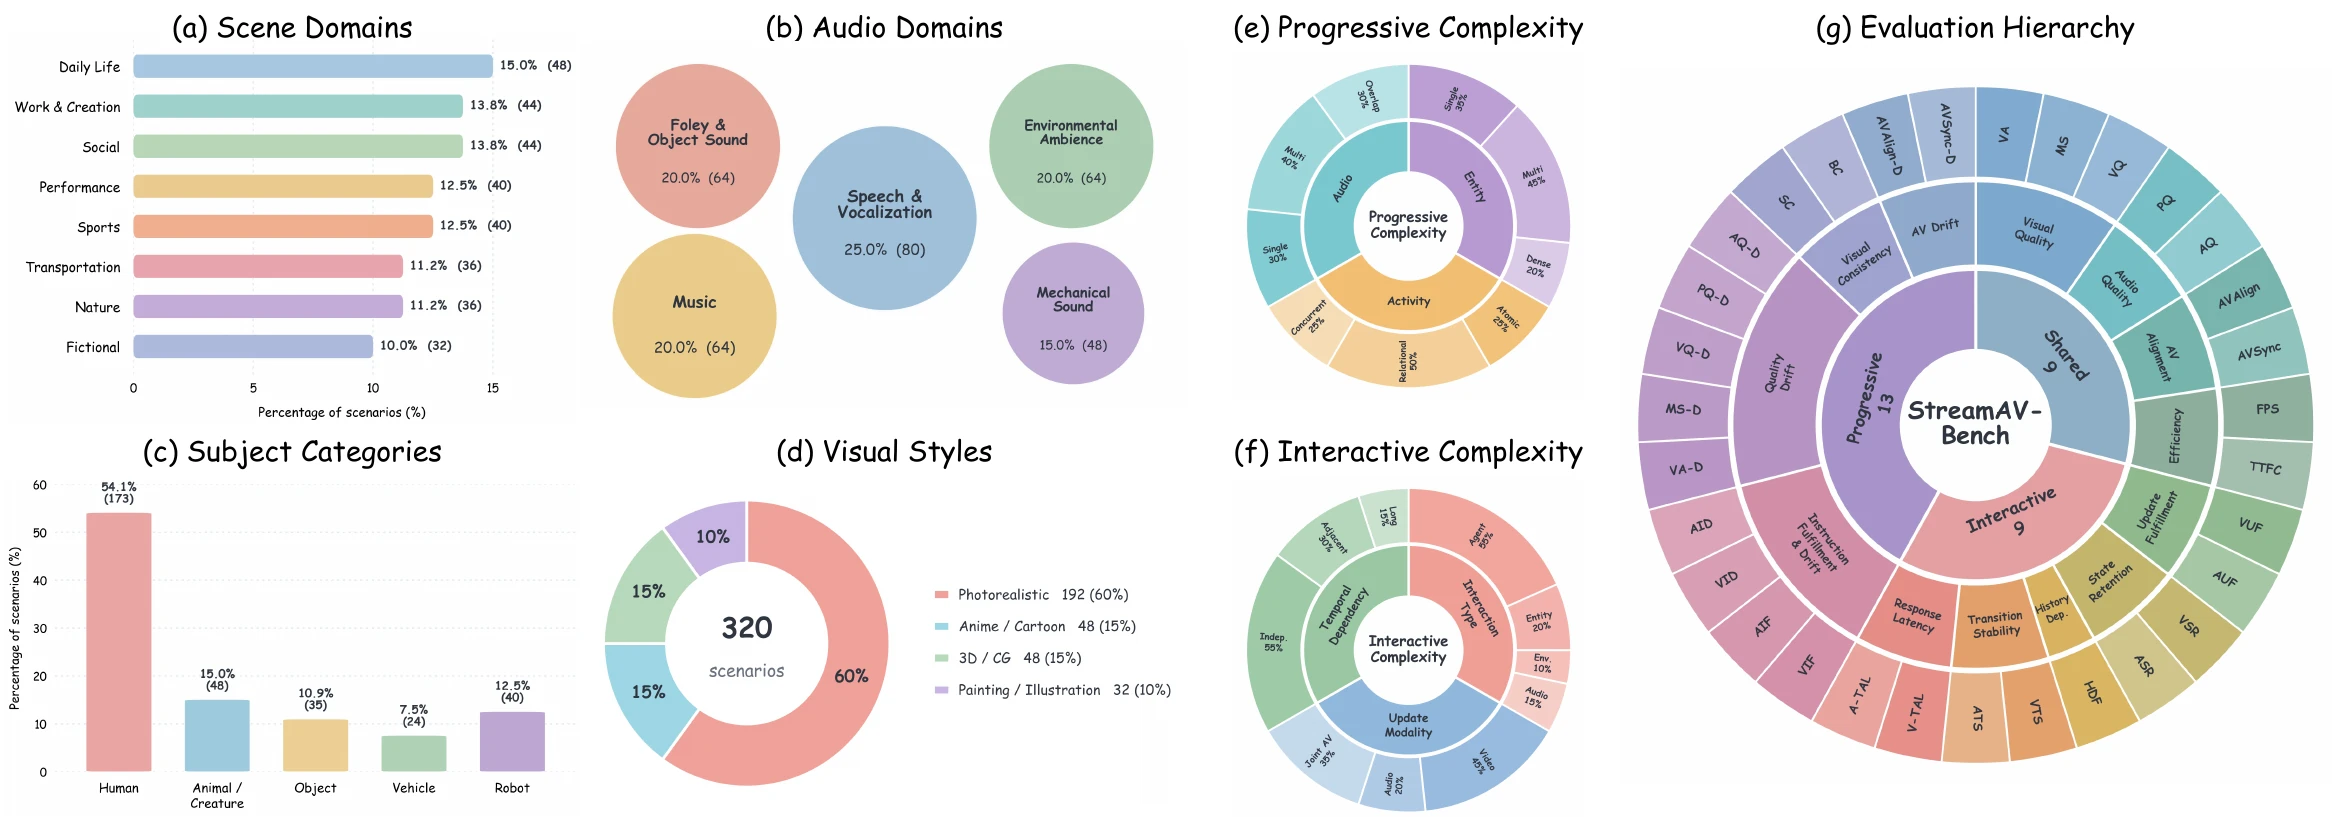
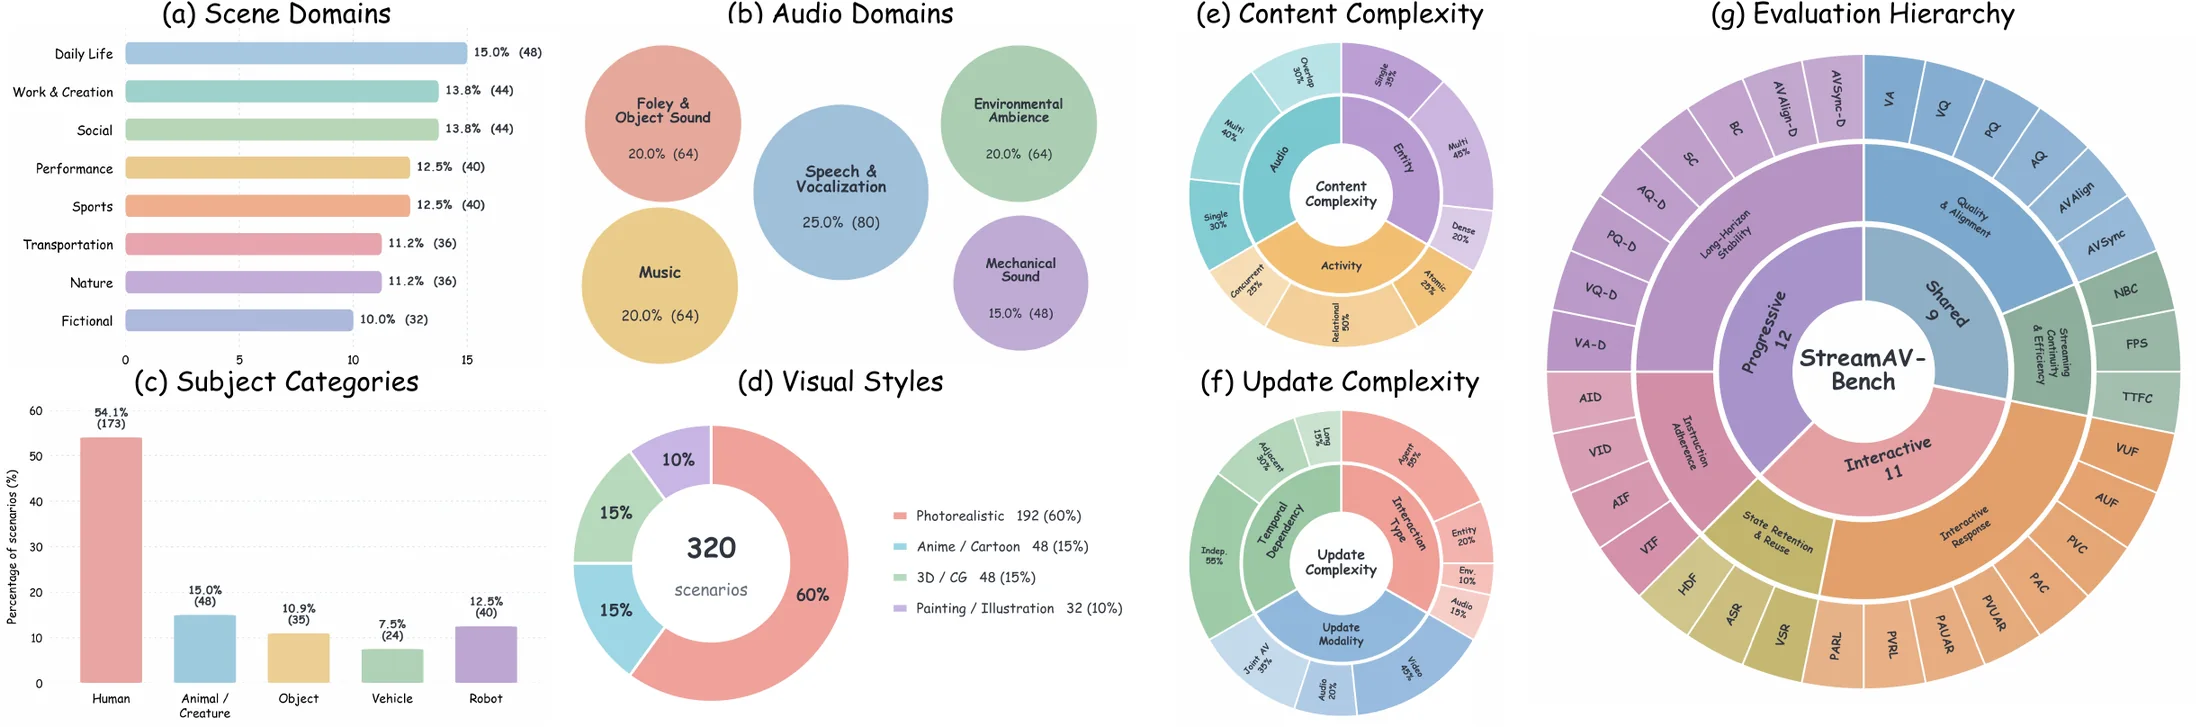
Update the project page to match the finalized paper

diff --git a/index.html b/index.html
@@ -3,7 +3,7 @@
 <head>
   <meta charset="utf-8">
   <meta name="viewport" content="width=device-width, initial-scale=1">
-  <meta name="description" content="StreamAV-Bench is a comprehensive benchmark for long-horizon and interactive streaming audio-video generation.">
+  <meta name="description" content="StreamAV-Bench is a comprehensive benchmark for streaming audio-video generation, with 320 expert-verified scenarios and 32 evaluation dimensions.">
   <meta property="og:title" content="StreamAV-Bench">
   <meta property="og:description" content="A comprehensive benchmark for streaming audio-video generation.">
   <meta property="og:image" content="assets/teaser.webp">
@@ -84,11 +84,11 @@
             <span><strong>Paper</strong><small>Coming soon</small></span>
             <b aria-hidden="true">—</b>
           </span>
-          <span class="resource-button resource-disabled" aria-disabled="true">
+          <a class="resource-button resource-primary" href="https://github.com/liukqchoco/StreamAVBench-Code" target="_blank" rel="noopener noreferrer">
             <span class="resource-icon" aria-hidden="true">&lt;/&gt;</span>
-            <span><strong>Code</strong><small>Coming soon</small></span>
-            <b aria-hidden="true">—</b>
-          </span>
+            <span><strong>Code</strong><small>GitHub repository</small></span>
+            <b aria-hidden="true">↗</b>
+          </a>
           <span class="resource-button resource-disabled" aria-disabled="true">
             <span class="resource-icon" aria-hidden="true">≋</span>
             <span><strong>Leaderboard</strong><small>Coming soon</small></span>
@@ -104,7 +104,7 @@
         <div class="hero-visual reveal">
           <div class="figure-label"><span>01</span> Benchmark at a glance</div>
           <div class="figure-scroll">
-            <img src="assets/teaser.webp" alt="Overview of StreamAV-Bench tasks, benchmark composition, and evaluation framework." width="2361" height="1011">
+            <img src="assets/teaser.webp" alt="Overview of StreamAV-Bench: progressive and interactive tracks, content and update complexity, and a 32-dimensional evaluation framework." width="2400" height="1095">
           </div>
         </div>
       </div>
@@ -115,7 +115,7 @@
         <div class="stat reveal"><strong>320</strong><span>curated scenarios</span></div>
         <div class="stat reveal"><strong>180<small>s</small></strong><span>continuous generation</span></div>
         <div class="stat reveal"><strong>800</strong><span>runtime updates</span></div>
-        <div class="stat reveal"><strong>33</strong><span>fine-grained metrics</span></div>
+        <div class="stat reveal"><strong>32</strong><span>fine-grained dimensions</span></div>
         <div class="stat reveal"><strong>13</strong><span>evaluated systems</span></div>
       </div>
     </section>
@@ -124,7 +124,7 @@
       <div class="section-heading reveal">
         <p class="kicker">The evaluation gap</p>
         <h2>A generated clip is no longer the final product.</h2>
-        <p>Streaming systems extend an already committed world while users intervene in real time. Evaluating only the completed output misses the failures that happen along the way.</p>
+        <p>Streaming systems generate incrementally while earlier clips become committed history. Users may keep a prompt fixed or update it at runtime. Evaluating only the completed output misses the failures that happen along the way.</p>
       </div>
 
       <div class="gap-grid">
@@ -137,13 +137,13 @@
         <article class="gap-card reveal">
           <span class="card-index">02</span>
           <h3>Updates change the world</h3>
-          <p>A model must realize each runtime instruction without erasing unrelated subjects, environments, or sounds.</p>
+          <p>A model must execute dynamic state switches quickly, without erasing unrelated subjects, environments, or sounds.</p>
           <div class="update-pills" aria-hidden="true"><i>P0</i><i>U1</i><i>U2</i><i>U3</i></div>
         </article>
         <article class="gap-card reveal">
           <span class="card-index">03</span>
           <h3>History changes the answer</h3>
-          <p>Later instructions can depend on states established many chunks earlier, demanding active state reuse rather than passive continuity.</p>
+          <p>Later instructions can depend on states established many intervals earlier, demanding active state reuse rather than passive continuity.</p>
           <div class="history-path" aria-hidden="true"><i></i><b></b><i></i><b></b><i></i></div>
         </article>
       </div>
@@ -156,7 +156,7 @@
             <p class="kicker">Two complementary tracks</p>
             <h2>One benchmark, two streaming regimes.</h2>
           </div>
-          <p>Both tracks generate 180 seconds of synchronized content, but expose different failure modes.</p>
+          <p>Both tracks generate 180 seconds of synchronized content, and we also compare the first 60, 120, and 180 seconds of the same rollout.</p>
         </div>
 
         <div class="tracks">
@@ -166,7 +166,7 @@
               <span>160 scenarios</span>
             </div>
             <h3>Can a world hold together over time?</h3>
-            <p>A single global prompt drives continuous generation. We inspect six non-overlapping intervals to reveal drift, degradation, and long-horizon consistency.</p>
+            <p>A single global prompt drives continuous generation. We evaluate instruction adherence and long-horizon stability as the committed history grows.</p>
             <div class="timeline progressive-timeline" aria-label="Progressive track timeline">
               <span class="prompt-node">Global prompt</span>
               <div class="timeline-line">
@@ -176,7 +176,7 @@
             <ul class="track-list">
               <li>Instruction fulfillment &amp; drift</li>
               <li>Quality degradation</li>
-              <li>Visual and cross-modal consistency</li>
+              <li>Subject, background, and audio-video consistency</li>
             </ul>
           </article>
 
@@ -186,7 +186,7 @@
               <span>160 scenarios · 5 updates each</span>
             </div>
             <h3>Can a world respond without forgetting?</h3>
-            <p>An initial world is modified every 30 seconds. Updates vary by interaction type, modality, and dependency on earlier events.</p>
+            <p>An initial world is updated every 30 seconds. Updates vary by interaction type, modality, and temporal dependency on earlier states.</p>
             <div class="timeline interactive-timeline" aria-label="Interactive track timeline">
               <div class="update-row">
                 <i>P0</i><i>U1</i><i>U2</i><i>U3</i><i>U4</i><i>U5</i>
@@ -196,9 +196,9 @@
               </div>
             </div>
             <ul class="track-list">
-              <li>Update fulfillment &amp; target timing</li>
-              <li>Transition stability</li>
-              <li>State retention &amp; history dependency</li>
+              <li>Update fulfillment, achievement, and latency</li>
+              <li>Prompt-based transition smoothness</li>
+              <li>State retention and history reuse</li>
             </ul>
           </article>
         </div>
@@ -209,11 +209,11 @@
       <div class="section-heading reveal">
         <p class="kicker">Benchmark construction</p>
         <h2>Designed for coverage. Verified for clarity.</h2>
-        <p>Taxonomy-driven allocation balances content and difficulty. Every prompt and checklist is independently reviewed by two experts, with disagreements resolved by an adjudicator.</p>
+        <p>Domain experts define 8 scene domains, 5 audio domains, 5 subject categories, and 4 visual styles, then allocate 160 themes to both tracks. Every prompt and checklist is independently reviewed by two experts, with disagreements resolved by an adjudicator.</p>
       </div>
       <figure class="wide-figure reveal">
         <img src="assets/construction.webp" alt="Five-stage construction pipeline covering taxonomy design, scripting, prompt generation, checklist construction, and expert verification." loading="lazy">
-        <figcaption><span>02</span> Taxonomy-guided construction and expert verification pipeline.</figcaption>
+        <figcaption><span>02</span> Taxonomy-guided construction, prompt and checklist generation, and expert verification of 320 scenarios.</figcaption>
       </figure>
     </section>
 
@@ -222,32 +222,32 @@
         <div class="section-heading split-heading reveal">
           <div>
             <p class="kicker">Evaluation framework</p>
-            <h2>33 metrics, organized by the questions that matter.</h2>
+            <h2>32 dimensions, organized into six categories.</h2>
           </div>
-          <p>Expert models, multimodal judges, deterministic detectors, and case-specific checklists provide complementary evidence.</p>
+          <p>Expert models, multimodal judges, and case-specific checklists provide complementary evidence.</p>
         </div>
 
         <div class="metric-grid">
           <article class="metric-card shared reveal">
             <span class="metric-count">Shared · 9</span>
-            <h3>Quality &amp; alignment</h3>
-            <p>Visual and audio quality, cross-modal semantics, synchronization, and practical streaming efficiency.</p>
+            <h3>Quality, alignment, and streaming</h3>
+            <p>Visual and audio quality, cross-modal alignment, native boundary continuity, and streaming efficiency.</p>
           </article>
           <article class="metric-card progressive reveal">
-            <span class="metric-count">Progressive · 13</span>
-            <h3>Long-horizon behavior</h3>
-            <p>Instruction drift, quality degradation, subject and background consistency, and audio-video drift.</p>
+            <span class="metric-count">Progressive · 12</span>
+            <h3>Instruction adherence and stability</h3>
+            <p>Instruction fulfillment and drift, quality degradation, subject and background consistency, and audio-video drift.</p>
           </article>
           <article class="metric-card interactive reveal">
             <span class="metric-count">Interactive · 11</span>
-            <h3>Stateful interaction</h3>
-            <p>Update fulfillment, target achievement and latency, transition stability, retention, and history dependency.</p>
+            <h3>Response, retention, and reuse</h3>
+            <p>Update fulfillment, achievement and latency, prompt-based continuity, state retention, and history-dependency following.</p>
           </article>
         </div>
 
         <figure class="wide-figure compact reveal">
-          <img src="assets/dataset.webp" alt="StreamAV-Bench content distributions, complexity factors, and evaluation hierarchy." loading="lazy">
-          <figcaption><span>03</span> Content diversity, track-specific complexity, and the complete evaluation hierarchy.</figcaption>
+          <img src="assets/dataset.webp" alt="StreamAV-Bench content distributions, complexity factors, and 32-dimensional evaluation hierarchy." loading="lazy">
+          <figcaption><span>03</span> Content diversity across 8 scene domains, 5 audio domains, 5 subject categories, and 4 visual styles, with the 32-dimensional evaluation hierarchy.</figcaption>
         </figure>
       </div>
     </section>
@@ -256,45 +256,45 @@
       <div class="shell">
         <div class="section-heading reveal">
           <p class="kicker">What the benchmark reveals</p>
-          <h2>Capability is fragmented across systems.</h2>
-          <p>No evaluated system simultaneously achieves persistent visual quality, strong audio, tight synchronization, and reliable interaction.</p>
+          <h2>Capability is distributed across paradigms.</h2>
+          <p>No evaluated system simultaneously dominates quality, long-horizon stability, interactive response, and state reuse.</p>
         </div>
 
         <div class="finding-list">
           <article class="finding reveal">
             <span class="finding-number">01</span>
             <div>
-              <h3>Strong generation does not guarantee stability.</h3>
-              <p>High absolute quality can coexist with substantial temporal drift. Quality and its evolution must be measured together.</p>
+              <h3>Performance is distributed across paradigms.</h3>
+              <p>Native joint systems lead in audio fidelity, synchronization, and most interactive metrics. Cascaded pipelines lead in visual quality, semantic alignment, and most long-horizon stability metrics.</p>
             </div>
-            <span class="finding-label">Progressive</span>
+            <span class="finding-label">Paradigm</span>
           </article>
           <article class="finding reveal">
             <span class="finding-number">02</span>
             <div>
-              <h3>Fast realization does not guarantee success.</h3>
-              <p>Models that realize successful updates early may still fail on most instructions. Achievement rate and latency tell different stories.</p>
+              <h3>High absolute performance does not ensure temporal stability.</h3>
+              <p>High quality or instruction fulfillment can coexist with large temporal drift. Quality and its evolution must be measured together.</p>
             </div>
-            <span class="finding-label">Interactive</span>
+            <span class="finding-label">Progressive</span>
           </article>
           <article class="finding reveal">
             <span class="finding-number">03</span>
             <div>
-              <h3>Preserving state is easier than using it.</h3>
-              <p>Systems retain visible and audible states more reliably than they actively invoke earlier information in later interactions.</p>
+              <h3>Fast response does not guarantee successful interaction.</h3>
+              <p>Low latency among achieved updates does not imply reliable update achievement. Achievement rates, response latencies, and history reuse must be interpreted jointly.</p>
             </div>
-            <span class="finding-label">History</span>
+            <span class="finding-label">Interactive</span>
           </article>
         </div>
 
         <div class="result-figures">
           <figure class="result-figure reveal">
-            <img src="assets/temporal-evolution.webp" alt="Temporal evolution curves for seven quality and audio-video alignment metrics over 180 seconds." loading="lazy">
-            <figcaption><span>04</span> Temporal evolution across six 30-second intervals.</figcaption>
+            <img src="assets/temporal-evolution.webp" alt="Temporal evolution of progressive-track quality and audio-video alignment over 180 seconds." loading="lazy">
+            <figcaption><span>04</span> Temporal evolution of six quality and alignment dimensions over 180 seconds.</figcaption>
           </figure>
           <figure class="result-figure reveal">
-            <img src="assets/qualitative.webp" alt="Eight representative failure modes in progressive and interactive streaming generation." loading="lazy">
-            <figcaption><span>05</span> Eight recurring failure modes exposed by StreamAV-Bench.</figcaption>
+            <img src="assets/qualitative.webp" alt="Eight common failure modes in progressive and interactive streaming generation." loading="lazy">
+            <figcaption><span>05</span> Eight common failure modes in long-horizon stability, interactive response, state reuse, and prompt-based continuity.</figcaption>
           </figure>
         </div>
       </div>
@@ -307,15 +307,20 @@
           <h2>Evaluation that evolves with the generated world.</h2>
         </div>
         <p class="abstract-copy reveal">
-          Recent advances are pushing video generation toward unbounded streaming
-          audio-video for real-time interactive worlds. Existing benchmarks,
-          however, primarily evaluate completed sequences. StreamAV-Bench bridges
-          this gap with a progressive track for instruction adherence and
-          long-horizon stability, and an interactive track for update response,
-          state retention, and history dependency. Across 320 expert-verified
-          scenarios, 33 fine-grained metrics, and 13 representative systems, the
-          benchmark reveals temporal drift, limited update success, and slow target
-          realization as central obstacles to dependable streaming generation.
+          Recent advancements in generative models are pushing video generation
+          toward unbounded streaming audio-video generation for real-time
+          interactive worlds. However, existing benchmarks primarily evaluate
+          completed sequences and struggle to capture streaming properties. To
+          bridge this gap, we introduce StreamAV-Bench, the first comprehensive
+          benchmark tailored for streaming audio-video generation. StreamAV-Bench
+          establishes a unified evaluation framework, including the progressive
+          track for instruction adherence and long-horizon stability, and the
+          interactive track for interactive response and state retention and reuse.
+          With expert-verified evaluation cases across 32 fine-grained dimensions,
+          we conduct an extensive evaluation of 13 representative systems. Our
+          analysis reveals that current models suffer from temporal degradation in
+          progressive generation and responsiveness bottlenecks during interactive
+          control.
         </p>
       </div>
     </section>

diff --git a/styles.css b/styles.css
@@ -902,7 +902,7 @@ figcaption {
 
 .finding h3 {
   margin-bottom: 8px;
-  font-size: 28px;
+  font-size: clamp(22px, 2.1vw, 26px);
 }
 
 .finding p {
